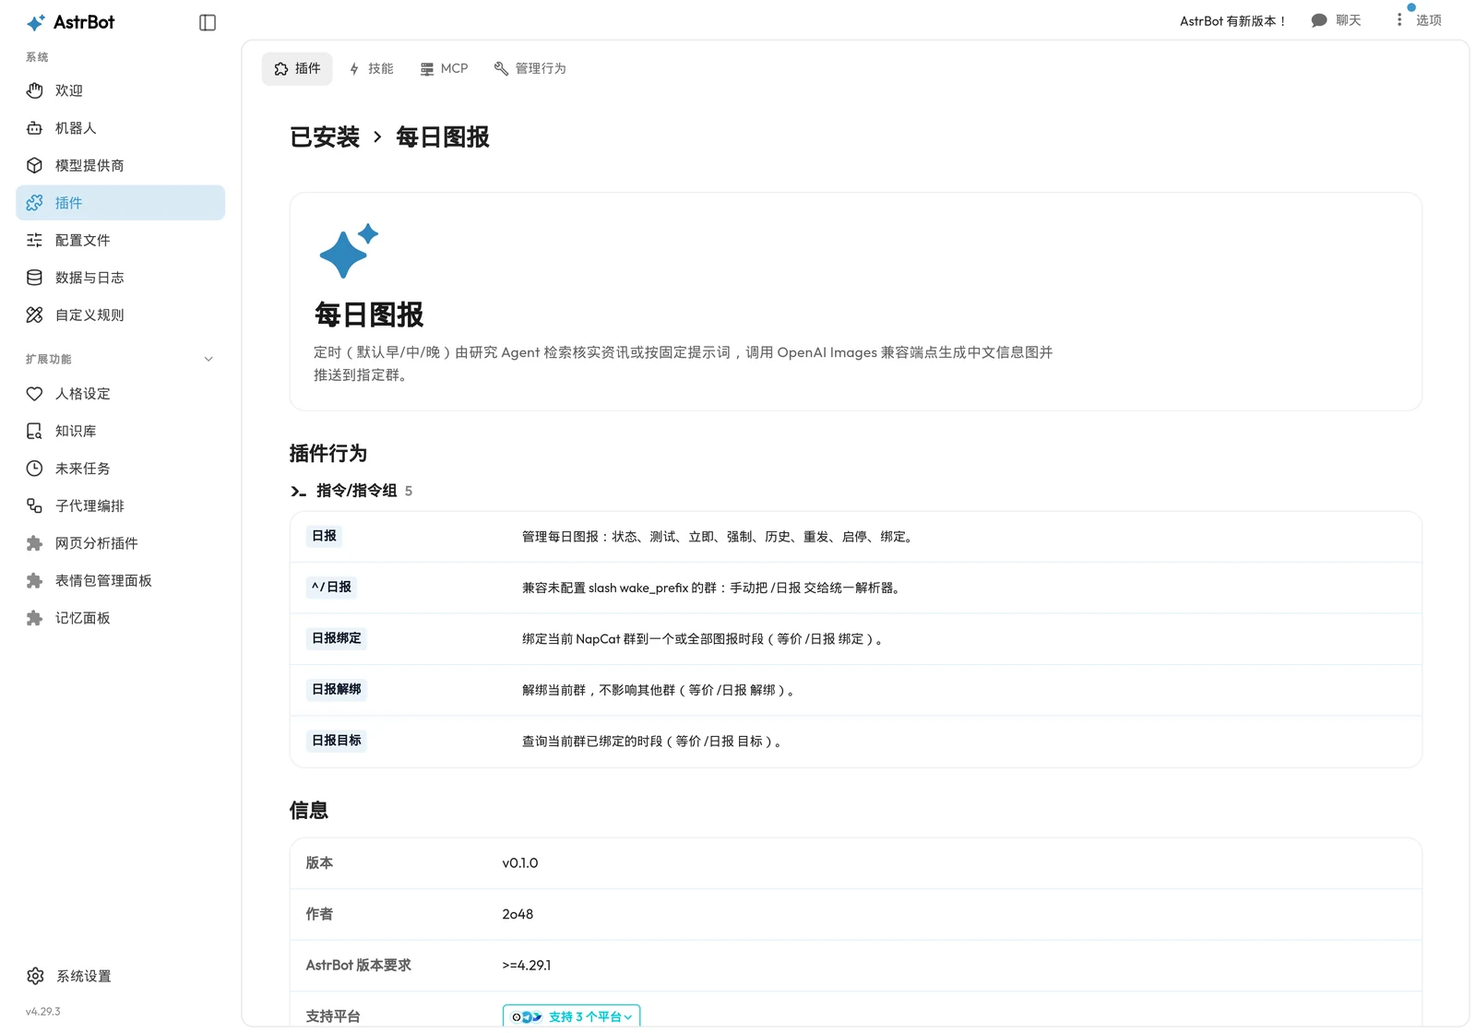
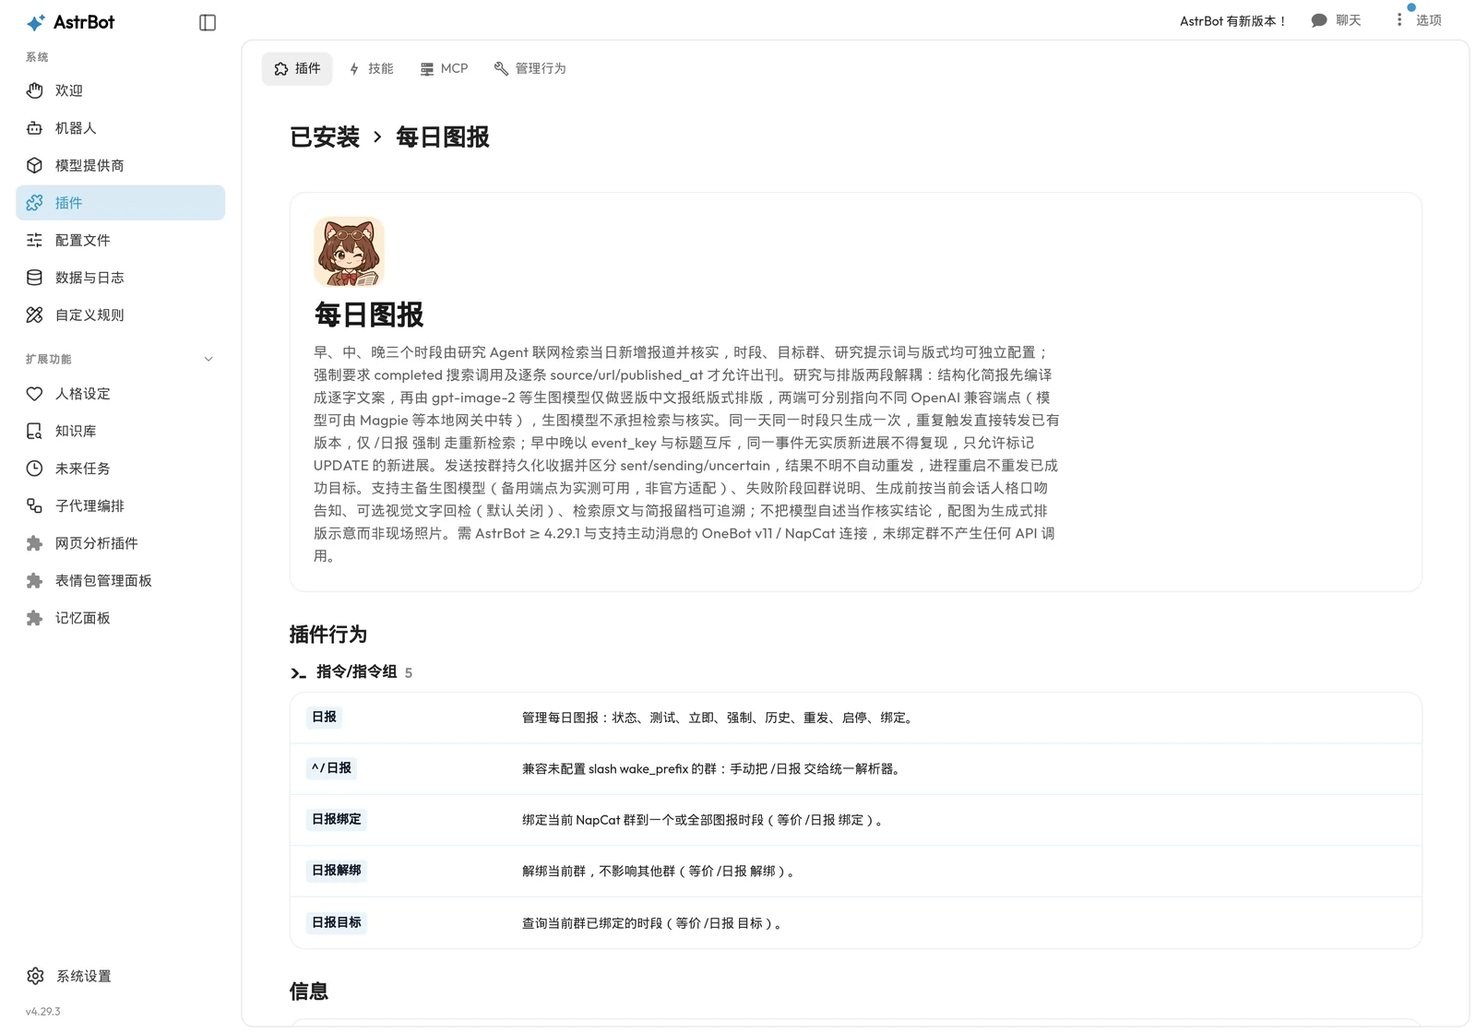
docs: README 重写，补能力清单与 Magpie 中转说明
- 新增「能力清单」：多群绑定、逐群发送收据、三档独立配置、
  agent/static 双模式、主备模型链、当天只出一次、跨刊去重、
  失败通知、人格口吻告知、全程留档、可选视觉回检、补发窗口、成本闸
- 新增「第一次使用」分步说明
- 说明 gpt-image-2 / hunyuan-image-alpha / codex 研究请求均由 Magpie 网关中转，
  并加入鸣谢；README 写法参考记忆日记
- 补 hunyuan-image-alpha 真实样张，注明其实测可用但带平台水印
- WebUI 截图重拍（作者已为 cnxiaohun、描述已更新）
- 修正两处不够准确的说法（key 未填的行为、预览是否占名额）

diff --git a/README.md b/README.md
@@ -4,175 +4,176 @@
 
 # 每日图报
 
-给自己的 QQ 群做一份每天准点送达的「报纸」。
+<sub>每天准点给群里送一份报纸。</sub>
 
-<sub>AstrBot 插件 · 早 08:00 / 午 12:30 / 晚 19:00 · 研究 Agent 联网核实 → 生成竖版报纸图 → 推群</sub>
+**AstrBot 插件：早中晚三档定时，研究 Agent 联网核实当日资讯，编译成逐字文案后交给生图模型排成竖版中文报纸，只发图片到绑定的群。**
 
 </div>
 
 ---
 
-## 先说清楚
+自用插件，跑在我自己的 AstrBot 上，每天往「吴某的乐子群」发早报、午报、晚报。顺手开源，主要是留个备份，换机器时不用重写一遍。
 
-这是我**自己用**的插件，跑在自己群的 AstrBot 上，每天往「**吴某的乐子群**」发早报、午报、晚报。写出来顺手开源，主要是留个备份，也方便以后换机器重装。
+默认配置是围着我这个群调的（刊名、右上角群名、三档时间），你换环境要改。它也不是通用资讯推送器，没打算做成大而全的东西。
 
-所以：
+## 效果
 
-- 默认配置都是围着我这一个群调的（刊名、右上角 `@吴某的乐子群`、三个时段），你要用得改一遍；
-- 它不是「通用资讯推送器」，我也不打算做成大而全的产品；
-- 代码里没什么花活，就是把「查资料 → 排版 → 发图」这条链路走稳，别每天翻车。
-
-## 它长这样
-
-群里收到的是这样一张竖版图（1024×1536，手机上直接看）：
+1024×1536 竖版报纸图：
 
 <a href="docs/images/sample-morning.webp"><img src="docs/images/sample-morning.webp" width="300" alt="早报样张"></a>
 <a href="docs/images/sample-noon.webp"><img src="docs/images/sample-noon.webp" width="300" alt="午报样张"></a>
 
-三个时段侧重不一样：
-
-| 时段 | 时间 | 内容 |
+| 时段 | 默认时间 | 侧重 |
 |---|---|---|
-| 早报 | 08:00 | 昨夜至今晨的国际要闻，政治外交 / 战争安全 / 灾害 / 经济 / 科技 / 社会文化，外加历史上的今天 |
-| 午报 | 12:30 | 上午的财经、产业、科技 AI、能源与监管动向 |
-| 晚报 | 19:00 | 白天事件的后续结果、社会文化、明日关注 |
+| 早报 | 08:00 | 昨夜到今晨的国际要闻，外加历史上的今天 |
+| 午报 | 12:30 | 上午的财经、产业、AI、能源与监管 |
+| 晚报 | 19:00 | 白天事件的后续，以及明天要盯什么 |
 
-在 AstrBot WebUI 里就是普通插件，指令也都是常规命令：
+WebUI 里就是普通插件的样子：
 
-<a href="docs/images/ui-plugin-detail.webp"><img src="docs/images/ui-plugin-detail.webp" width="720" alt="AstrBot WebUI 中的每日图报"></a>
+<a href="docs/images/ui-plugin-detail.webp"><img src="docs/images/ui-plugin-detail.webp" width="720" alt="插件页"></a>
+<a href="docs/images/ui-plugin-info.webp"><img src="docs/images/ui-plugin-info.webp" width="720" alt="插件信息"></a>
 
-## 一个前提：生图模型不会查新闻
+## 能力清单
 
-这点值得单独写，因为踩过坑。
+- **一个时段可以绑多个群。** `targets` 是列表，早报可以只发 A 群、晚报同时发五个群；反过来一个群也能同时收三档。
+- **逐群独立发送收据。** 每个目标单独记 `sent` / `sending` / `uncertain`，五群里有一群发失败只补那一群，已成功的绝不重发。
+- **三档完全独立配置。** 时间、模式、研究提示词、图片提示词、模型、尺寸、质量、目标群各档互不影响。
+- **绑群有三种方式。** 群内发 `/日报 绑定 全部`（自动取当前群，用的是真实群号而不是隔离到个人的会话 ID）、WebUI 的会话来源选择器、或者手填 UMO。
+- **两种生成模式。** `agent` 走联网研究；`static` 用你自己写的固定提示词直接出图，适合节日海报、早安图这类不需要资讯的场景。
+- **主备模型链。** 主模型挂了按 `fallback_image_models` 顺序往下试，运行记录里会写明实际用的是哪个。
+- **当天只出一次。** 同一天同一档重复触发不再调 API，直接转发已有那张；只有 `/日报 强制` 会重新检索重新画。
+- **跨刊去重。** 早中晚之间传递当天已出刊的标题和 `event_key`，同一件事没有新进展不许再占版面，标 `UPDATE` 才放行。
+- **失败不沉默。** 生成失败会在群里说明卡在哪个阶段、原因摘要、怎么重试；另外可以配 `alert_umo` 把失败单独发给管理员。
+- **开工前用人格说一声。** 调一次很短的模型请求，把「开始做 12:30 的午报」换成群里那个人设的语气，改不动就退回原句。
+- **全程留档。** `brief.json`（结构化简报）、`evidence.json`（原始搜索调用与来源）、`research_prompt.txt` / `image_prompt.txt`（实际发出的提示词）、`meta.json`（模型、耗时、token、图片尺寸与哈希）。
+- **可选视觉回检。** 打开 `qa.enabled` 后用视觉模型核对图上的刊头、日期、群标识和标题是否齐全，不通过就不发群。
+- **错过会补，但只在窗口内。** 重启或卡住导致错过定时，`catchup_window_minutes`（默认 30 分钟）内补一次，超过就不补——不会半夜突然弹出早报。
+- **成本有闸。** `max_runs_per_day`、`max_concurrent_generations`、整个运行的硬超时 `stale_run_minutes`；研究超时会自动重试一次，生图超时不重试。
 
-`gpt-image-2`、`hunyuan-image-alpha` 这类文生图模型**不联网、不能核实**。直接让它「画今天的新闻」，它会一本正经编出看起来合理、但查无此事的标题。所以链路是拆开的：
+## 一条前提
+
+生图模型不联网。你让它「画今天的新闻」，它会编出三条看着挺像那么回事、实际查无此事的标题——这坑我踩过。所以查和画是拆开的：
 
 ```mermaid
 flowchart LR
-    A[定时触发] --> B{当天已生成?}
-    B -- 是 --> R[直接转发已有那版]
-    B -- 否 --> C[研究 Agent<br/>Responses API + web_search]
-    C --> D[结构化简报<br/>带来源 URL / 发布时间]
+    A[定时触发] --> B{当天出过没}
+    B -- 出过 --> R[直接转发那一版]
+    B -- 没出 --> C[研究 Agent<br/>Responses API + web_search]
+    C --> D[结构化简报<br/>带 source / url / published_at]
     D --> E[编译成逐字文案]
-    E --> F[生图模型只负责排版]
-    F --> G[可选视觉回检]
-    G --> H[发送到群，只发图片]
+    E --> F[生图模型只管排版]
+    F --> G[发群，只发图]
 ```
 
-**查和写归研究模型，画归生图模型。** 简报里每条重点新闻都带 `source` / `url` / `published_at`，研究请求必须真的出现 `completed` 的 `web_search_call`，否则直接判失败 —— 宁可当天不出报，也不发编的新闻。
+研究请求里必须真的出现 `completed` 的 `web_search_call`，每条新闻都得带来源链接和发布时间，否则当天判失败、不出报。
 
-即便这样，模型仍会误读、错归因、引用旧稿。插件保证的是「可追溯」，不是「已核实」，敏感内容还请自己抽查。
+还是那句：插件保证的是**可追溯**，不是已核实。模型照样会误读、会引旧稿，敏感内容自己抽查。
 
-## 装上试试
+顺带一提，我这里 `gpt-image-2`、`hunyuan-image-alpha` 和研究用的 `codex/gpt-6.1-sol` 都不是直连官方 API，而是走 [Magpie](https://github.com/yetone/magpie) 这个本地网关中转出来的 OpenAI 兼容端点。插件只认 `base_url`，所以换官方 API、换 New API、换自建代理都行，不用改代码。
 
-要求 AstrBot ≥ 4.29.1、Python ≥ 3.11，群里需要支持主动消息的 NapCat / OneBot v11 连接（QQ 官方机器人不支持定时推送）。
+## 第一次使用
+
+需要 AstrBot ≥ 4.29.1、Python ≥ 3.11，群那边得是支持主动消息的 NapCat / OneBot v11（QQ 官方机器人发不了定时推送）。
 
 ```text
-# WebUI → 插件 → 从 URL / GitHub 安装，填：
+# WebUI → 插件 → 从 URL / GitHub 安装
 https://github.com/Cnxiaohun/astrbot_plugin_daily_image_report
 
-# 或手动放目录
+# 或者手动
 cd AstrBot/data/plugins
 git clone https://github.com/Cnxiaohun/astrbot_plugin_daily_image_report
 ```
 
-然后在插件配置里填两样：
+1. 插件配置里填 `api.base_url` 和 `api.api_key`；没绑群时它一次 API 都不会调，填错 key 也只会在生成时报错，不会偷偷扣费；
+2. 想改刊名和右上角标识，动 `brand.edition` / `brand.handle`；
+3. 到目标群里用管理员身份发 `/日报 绑定 全部`；
+4. 发 `/日报 测试 早报` 试一张，只回到当前会话、不写正式发送记录，之后正式跑仍会正常生成（预览会算进 `max_runs_per_day`）；
+5. 满意就等着，或者发 `/日报 立即 早报` 直接推群。
 
-| 配置项 | 说明 |
-|---|---|
-| `api.base_url` | OpenAI 兼容网关地址，默认 `http://127.0.0.1:8000` |
-| `api.api_key` | 你自己的 key，**不要**提交进仓库 |
+Docker 里的 AstrBot 注意 `127.0.0.1` 指容器自己，要换成宿主地址或 `host.docker.internal`。
 
-> AstrBot 跑在 Docker 里时，`127.0.0.1` 指的是容器自己，得换成宿主地址或 `host.docker.internal`。
-
-最后在群里用管理员身份绑定：
-
-```text
-/日报 绑定 全部      # 把当前群加入三个时段
-/日报 测试 早报      # 先试一张，只发到当前会话
-/日报 状态
-```
-
-**没绑定群之前不会产生任何 API 调用**，这点可以放心。
+**没绑群之前一次 API 都不会调**，不用担心装完就开始烧钱。
 
 ## 指令
 
-统一写法 `/日报 <动作> [时段]`，**动作和时段顺序随便**，`/日报 测试 早报` 和 `/日报 早报 测试` 效果一样。
+`/日报 <动作> [时段]`，动作和时段谁在前都行——`/日报 测试 早报` 和 `/日报 早报 测试` 是一回事。
 
-| 指令 | 干什么 |
+| 指令 | 用途 |
 |---|---|
 | `/日报` | 帮助 |
-| `/日报 状态` | 各时段开关、目标数、下次计划、上次结果 |
-| `/日报 历史 [1-20]` | 最近运行记录、`run_id`、失败原因 |
-| `/日报 目标` | 当前群绑了哪些时段 |
-| `/日报 测试 早报` | 只发到当前会话，不写正式记录 |
-| `/日报 立即 早报` / `/日报 早报` | 发到已绑定群，当天已有图就复用 |
-| `/日报 强制 早报` | 重新检索并生图（**会再计费**），唯一绕过「当天只生成一次」的入口 |
-| `/日报 启用 早报` / `停用 早报` | 开关单个时段 |
-| `/日报 绑定 早报` / `绑定 全部` | 当前群加入该时段 |
-| `/日报 解绑 早报` / `解绑 全部` | 从该时段移除当前群 |
-| `/日报 重发 <run_id> [确认]` | 复用旧图重发；带 `确认` 才允许重发「结果不明」的目标 |
+| `/日报 状态` | 各档开关、目标数、下次几点、上次结果 |
+| `/日报 历史 [1-20]` | 运行记录、`run_id`、失败原因 |
+| `/日报 目标` | 这个群绑了哪几档 |
+| `/日报 测试 早报` | 只发当前会话，不记正式账 |
+| `/日报 立即 早报`（或 `/日报 早报`） | 发绑定群，当天出过就复用 |
+| `/日报 强制 早报` | 重新检索重新画，**会再扣一次费** |
+| `/日报 启用 早报` / `停用 早报` | 开关单档 |
+| `/日报 绑定 早报` / `绑定 全部` | 当前群加入该档 |
+| `/日报 解绑 早报` / `解绑 全部` | 当前群移出该档 |
+| `/日报 重发 <run_id> [确认]` | 拿旧图重发；`确认` 才动「结果不明」的群 |
 
-时段能写 `早报/早/早上`、`午报/午/中午`、`晚报/晚/晚上`，也能写 `morning/noon/evening`。旧写法 `/日报测试 早报`、`/日报绑定 全部` 也还能用。
+时段写 `早/早报/早上`、`午/午报/中午`、`晚/晚报/晚上` 都认，`morning/noon/evening` 也认；老写法 `/日报测试 早报` 还在。
 
-拼错不会被当成「立即发布」—— 比如 `/日报 强制重做 早报` 会提示「无法识别的参数『强制重做』；是不是『强制』？」，不会偷偷扣一次生图费用。
+参数拼错会告诉你「是不是想打『强制』」，而不是闷头执行——一次强制就是真金白银。
 
-## 几个我自己在意的细节
+## 备用模型
 
-**当天只生成一次。** 同一天同一时段，第二次触发不再调 API，而是把已经做好的那版转发出来。想重做只有 `/日报 强制` 一条路。
+主模型挂了会按 `api.fallback_image_models` 顺序兜底。**混元（`hunyuan-image-alpha`）同样实测跑通过**，但不是官方承诺的适配目标，也是经 Magpie 中转拿到的——中文排版照样能出：
 
-**不重复发。** 每个群每次发送都有持久化收据，`sent` / `sending` / `uncertain` 分得清楚。发送时抛异常会记成 `uncertain` 并且**不自动重发** —— 宁可不补，也不要群里出现两张一样的报纸。进程重启也不会重发已成功的。
+<a href="docs/images/sample-hunyuan.webp"><img src="docs/images/sample-hunyuan.webp" width="300" alt="hunyuan-image-alpha 样张"></a>
 
-**失败不再沉默。** 早期版本告知发出去、生成失败，群里就再没下文了（我自己踩过一次：早上看到提示，图一直没来）。现在失败会补一句卡在哪个阶段、原因摘要、怎么重试。
+两点区别：它返回图片 URL 而不是 base64（插件自动下载，只允许公网地址、不带 `Authorization`）；右下角带 `AI生成 WORKBUDDY` 平台水印，插件去不掉。所以它适合当兜底，别当主力。
 
-**跨刊去重。** 早/午/晚之间会传递当天已出刊物的标题和 `event_key`，同一事件没有实质新进展不许重复出现，只有标 `UPDATE` 才能再写一遍。
-
-**生成前先用当前人格说一声。** 会调一次很短的模型请求，把「开始做 2026-11-12（星期四）12:30 的午报」改写成群里那个人格的口吻；改不动就退回原句，不影响生成。正式推送仍然只发图片。
+其他 OpenAI Images 兼容端点理论上都能用，模型名随便填，但我只在 Magpie 上验证过这两个。
 
 ## 配置速查
 
 <details>
-<summary><code>schedules</code> / <code>announce</code> / <code>research</code> 常用项</summary>
+<summary>常用项</summary>
 
 | 键 | 默认 | 说明 |
 |---|---|---|
-| `schedules.morning.time` | `08:00` | 时段 HH:MM |
-| `schedules.morning.mode` | `agent` | `agent` 联网研究；`static` 用固定提示词（需自填 `image_prompt`） |
-| `schedules.morning.targets` | `[]` | 目标群 UMO，群内 `/日报 绑定` 会自动填 |
-| `schedules.morning.research_prompt` | 空 | 留空用内置早报模板 |
-| `schedules.morning.image_prompt` | 空 | 留空用内置报纸版式模板 |
-| `api.size` | `1024x1536` | 竖版；部分网关不严格遵守，记录以实际输出为准 |
-| `api.fallback_image_models` | `["hunyuan-image-alpha"]` | 主模型失败时按顺序兜底 |
-| `research.model` | `codex/gpt-6.1-sol` | 需要支持 Responses API 的 `web_search` |
-| `research.timeout_seconds` | `240` | 研究超时；超时会自动重试一次 |
-| `announce.enabled` | `true` | 生成前是否在群里说一声 |
-| `announce.use_persona` | `true` | 是否用当前人格改写告知语 |
-| `announce.notify_on_failure` | `true` | 失败是否在群里说明 |
-| `qa.enabled` | `false` | 视觉回检图片文字，会增加耗时和成本 |
-| `limits.max_concurrent_generations` | `1` | 同时进行的生图任务数 |
+| `schedules.morning.time` | `08:00` | HH:MM |
+| `schedules.morning.mode` | `agent` | `agent` 联网研究；`static` 用固定提示词（得自己填 `image_prompt`） |
+| `schedules.morning.targets` | `[]` | 目标群 UMO 列表，群内 `/日报 绑定` 会写进来 |
+| `schedules.morning.research_prompt` | 空 | 留空走内置早报模板 |
+| `schedules.morning.image_prompt` | 空 | 留空走内置报纸版式模板 |
+| `schedules.morning.model` / `size` / `quality` | 空 | 单档覆盖全局生图参数 |
+| `api.base_url` / `api_key` | `http://127.0.0.1:8000` / 空 | OpenAI 兼容网关（我用 Magpie） |
+| `api.size` | `1024x1536` | 有的网关不听话，记录以实际输出为准 |
+| `api.fallback_image_models` | `["hunyuan-image-alpha"]` | 兜底顺序；混元带平台水印，去不掉 |
+| `research.model` | `codex/gpt-6.1-sol` | 需支持 Responses API 的 `web_search` |
+| `research.timeout_seconds` | `240` | 超时会自动重试一次 |
+| `alert_umo` | 空 | 失败单独通知这个会话 |
+| `announce.enabled` / `use_persona` / `notify_on_failure` | `true` | 开工前说一声、用人格改写、失败也说明 |
+| `qa.enabled` | `false` | 视觉回检图上的字，费时间也费钱 |
+| `limits.max_runs_per_day` | `12` | 每天最多跑几次（预览也算） |
+| `limits.max_concurrent_generations` | `1` | 并发生图数 |
+| `limits.catchup_window_minutes` | `30` | 错过定时后的补发窗口 |
+| `limits.stale_run_minutes` | `15` | 整个运行的硬超时 |
+| `limits.retention_days` | `7` | 留档保留天数 |
 
-模板占位符用 `{{date}}`、`{{slot_name}}`、`{{cover.headline}}` 这类双花括号，只做简单替换，**不支持循环和条件**；写错的占位符会直接报错，不会静默变空。
+模板里是 `{{date}}`、`{{slot_name}}`、`{{cover.headline}}` 这种双花括号，只做替换，不支持循环和条件。写错的占位符直接报错，不会悄悄变成空的。
 
 </details>
 
 ## 数据与安全
 
-数据在 `AstrBot/data/plugin_data/astrbot_plugin_daily_image_report/`：
+东西都存在 `AstrBot/data/plugin_data/astrbot_plugin_daily_image_report/`：
 
 ```text
-state.json                     运行索引与发送收据
+state.json                     运行索引 + 逐群发送收据
 runs/20261112-morning-xxxxxxxx/
-    meta.json  brief.json  evidence.json
-    research_prompt.txt  image_prompt.txt  image.png  qa.json
+    meta.json  brief.json  evidence.json  qa.json
+    research_prompt.txt  image_prompt.txt  image.png
 ```
 
-默认保留 7 天。`state.json` 损坏时插件会拒绝启动而不是重置 —— 去重历史丢了比不启动更危险。
+默认留 7 天。`state.json` 坏了插件会拒绝启动而不是重置——去重历史和发送收据丢了，比不启动更麻烦。
 
-几个刻意的取舍：
+同一份数据目录带进程锁，不会有两个实例同时跑；但**不提供跨机分布式锁**，别多台机器共享这个目录。
 
-- API Key 只存在 AstrBot 配置里，插件不写日志、不写运行元数据、不进仓库；配置里的 `secret: true` 只是 WebUI 遮罩，并不加密；
-- 生图返回的图片 URL 只允许公网地址，下载不带 `Authorization`，限制大小与重定向；
-- 管理指令要求 AstrBot 管理员权限，不把 QQ 群管自动当成机器人管理员。
+API Key 只存在 AstrBot 配置里，不写日志、不进运行元数据、不进仓库（配置里的 `secret: true` 只是 WebUI 遮罩，不加密）。管理指令要 AstrBot 管理员权限，QQ 群管不算。
 
 ## 测试
 
@@ -180,27 +181,31 @@ runs/20261112-morning-xxxxxxxx/
 python -m unittest discover -s tests    # 95 项
 ```
 
-覆盖了并发重发不重复、研究失败不降级编造、SSRF 拦截、收据持久化、拼错指令不误发布这些我认为最容易出事的地方。跑真实 API 的预览脚本在 `tools/preview.py`，**只生成不发群**：
+覆盖了并发重发不重复、研究失败不降级编造新闻、SSRF 拦截、收据持久化、拼错指令不误发布这些最容易出事的地方。
+
+想拿真 API 试但不发群，用 `tools/preview.py`：
 
 ```bash
 export DAILY_REPORT_API_KEY='你的key'
 python tools/preview.py --slot morning --base-url http://127.0.0.1:8000 --output ./preview-output
 ```
 
-## 已知不足
+## 已知的坑
 
-- 只在 AstrBot 4.29.3 + NapCat 上真机跑过，其他平台没验证；
-- 研究这一步要 2–4 分钟，加上生图几十秒，**从触发到收到图有几分钟延迟**，不是「准点弹出来」；
-- 去重靠 `event_key` 和标题比对，属于提示机制，不是确定性事实引擎；
-- 备用混元会带平台水印，插件不去掉它。
+- 只在 AstrBot 4.29.3 + NapCat 上真跑过；`support_platforms` 里声明了 telegram / lark，但没实测。
+- 研究要 2–4 分钟，生图再几十秒，所以是「几分钟后到」，不是准点弹出。
+- 去重靠 `event_key` 和标题比对，属于提示层面的机制，不是确定性事实引擎。
+- 竖版靠提示词里显式写「竖版 2:3」，个别网关仍可能返回别的比例，以实际输出为准。
+- 混元能出图，但带平台水印，插件去不掉。
 
 ## 鸣谢
 
-- **OpenAI** —— `gpt-image-2` 渲染中文版面，Responses API 的 `web_search` 撑起整条研究链路。这个插件基本是踩着它的能力边界写出来的；README 里的头像和吉祥物也是它画的。
-- **Qoder** —— 开发中大量实现和重构是在 Qoder 的 Agent 里完成的，包括客户端重试策略、并发锁，以及那些安全边界。
-- **DeepSeek** —— 长上下文代码审阅和边界情况推演，帮我提前填了不少坑。
+- **OpenAI** —— `gpt-image-2` 负责版面，Responses API 的 `web_search` 撑起研究链路。README 的头像和吉祥物也是它画的。
+- **Magpie**（[yetone/magpie](https://github.com/yetone/magpie)）—— 本地模型网关。`gpt-image-2`、`hunyuan-image-alpha` 和带 `web_search` 的 Responses 请求都从它那儿中转，整套「研究 + 排版」链路才能只靠 OpenAI 兼容接口跑通。
+- **Qoder** —— 大量实现和重构在 Qoder 的 Agent 里完成，重试策略、并发锁、安全边界都出自那里。
+- **DeepSeek** —— 长上下文审代码、推演边界情况，替我挡掉了不少坑。
 
-以及 [AstrBot](https://github.com/AstrBotDevs/AstrBot) 本体 —— 插件文档写得比很多商业项目清楚。
+以及 [AstrBot](https://github.com/AstrBotDevs/AstrBot) 本体，插件文档写得挺清楚。README 的写法参考了 [记忆日记](https://github.com/mrzhsz3210/astrbot_plugin_memory_diary)——原来插件说明可以这么写。
 
 ## License
 
